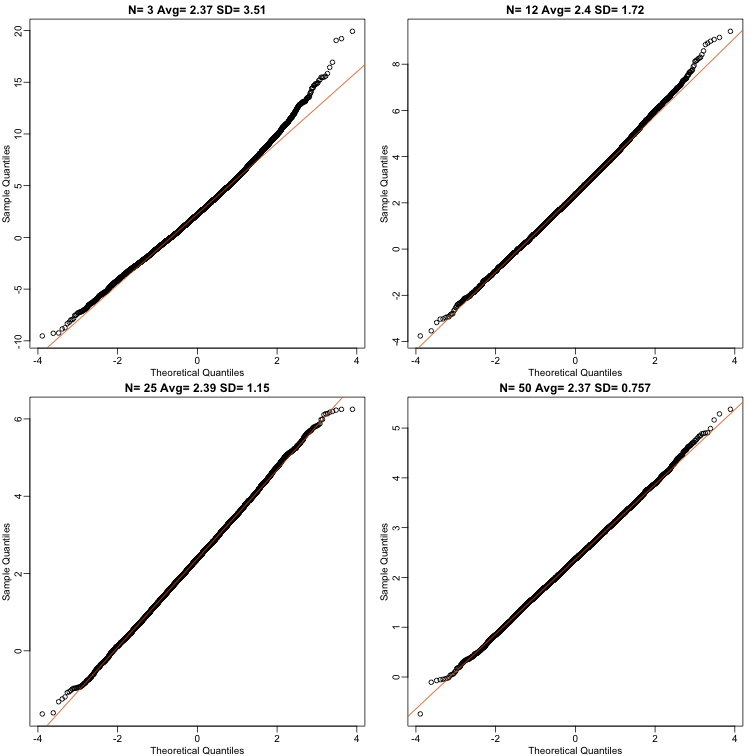
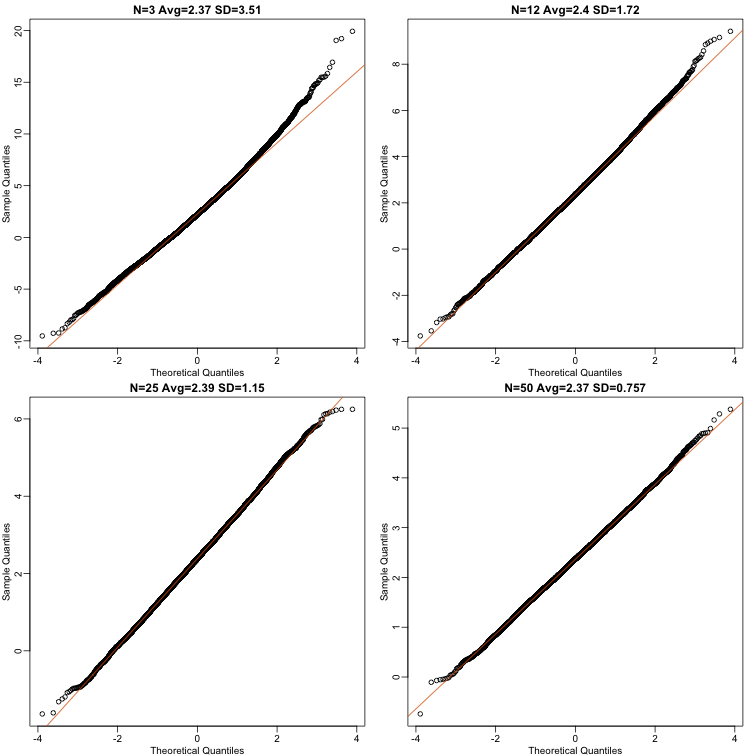
adding clt_in_practice to book

diff --git a/manuscript/clt_in_practice.md b/manuscript/clt_in_practice.md
@@ -12,7 +12,7 @@ layout: page
 
 R markdown document for this section available [here](https://github.com/genomicsclass/labs/tree/master/course1/clt_in_practice.Rmd).
 
-Let's use our data to see how well the central limit approximates sample averages from our data. We will leverage our entire population dataset to compare the results we obtain by actually sampling from the distribution to what the CLT predicts.  
+Let's use our data to see how well the central limit theorem approximates sample averages from our data. We will leverage our entire population dataset to compare the results we obtain by actually sampling from the distribution to what the CLT predicts.
 
 
 
@@ -32,7 +32,8 @@ head(dat)
 ## 6   F   hf      27.50
 ```
 
-Start by selecting only female mice since males and females have different weights.
+Start by selecting only female mice since males and females have
+different weights. We will select three mice from each population.
 
 
 ```r
@@ -53,15 +54,18 @@ print(mu_hf - mu_control)
 ## [1] 2.375517
 ```
 
-Compute the population standard deviations as well. We do not use the R function `sd` because this is to compute the population based estimates that divide by the sample size - 1. 
+Compute the population standard deviations as well. We do not use the
+R function `sd` because this would compute the estimates that divide by the
+sample size - 1, and we want the population estimates.
 
 We can see that with R code:
 
+
 ```r
-x<-controlPopulation
-N<-length(x)
+x <- controlPopulation
+N <- length(x)
 popvar <- mean((x-mean(x))^2)
-identical(var(x),popvar)
+identical(var(x), popvar)
 ```
 
 ```
@@ -76,7 +80,9 @@ identical(var(x)*(N-1)/N, popvar)
 ## [1] TRUE
 ```
 
-So to be mathematically correct we do not use `sd` or  `var`. I am going to define a function for this:
+So to be mathematically correct we do not use `sd` or  `var`. I am
+going to define functions for this:
+
 
 ```r
 popvar <- function(x) mean( (x-mean(x))^2)
@@ -94,19 +100,24 @@ sd_control <- popsd(controlPopulation)
 Remember that in practice we do not get to compute these population parameters.
 These are values we never see. In general, we want to estimate them from samples. 
 
+
 ```r
 N <- 12
-hf <- sample(hfPopulation,12)
-control <- sample(controlPopulation,12)
+hf <- sample(hfPopulation, 12)
+control <- sample(controlPopulation, 12)
 ```
-The CLT tells us that, for large {$$}N{/$$}, each of these is approximately normal with average population mean and standard error population variance divided by {$$}N{/$$}. We mentioned that a rule of thumb is that {$$}N{/$$} should be 30 or more. But that is just a rule of thumb as the preciseness of the approximation depends on the population distribution. Here we can actually check the approximation and we do that for various values of {$$}N{/$$}.
 
-Now we use `sapply` and `replicate` instead of `for` loops, which is recommended.
+The CLT tells us that, for large {$$}N{/$$}, each of these is approximately normal with average population mean and standard error population variance divided by {$$}N{/$$}. We mentioned that a rule of thumb is that {$$}N{/$$} should be 30 or more. But that is just a rule of thumb, as the preciseness of the approximation depends on the population distribution. Here we can actually check the approximation and we do that for various values of {$$}N{/$$}.
+
+Now we use `sapply` and `replicate` instead of `for` loops, which
+makes for cleaner code (we do not have to pre-allocate a vector, R
+takes care of this for us):
+
 
 ```r
 Ns <- c(3,12,25,50)
 B <- 10000 #number of simulations
-res <-  sapply(Ns,function(n){
+res <-  sapply(Ns,function(n) {
   replicate(B,mean(sample(hfPopulation,n))-mean(sample(controlPopulation,n)))
 })
 ```
@@ -118,19 +129,13 @@ Now we can use qq-plots to see how well CLT approximations works for these. If i
 library(rafalib)
 ```
 
-```
-## 
-## Attaching package: 'rafalib'
-## 
-## The following objects are masked _by_ '.GlobalEnv':
-## 
-##     popsd, popvar
-```
 
 ```r
 mypar(2,2)
-for(i in seq(along=Ns)){
-  title <- paste("N=",Ns[i],"Avg=",signif(mean(res[,i]),3),"SD=",signif(popsd(res[,i]),3)) #popsd defined above
+for (i in seq(along=Ns)) {
+  titleavg <- signif(mean(res[,i]),3)
+  titlesd <- signif(popsd(res[,i]),3)
+  title <- paste0("N=",Ns[i]," Avg=",titleavg," SD=",titlesd)
   qqnorm(res[,i],main=title)
   qqline(res[,i],col=2)
 }
@@ -138,23 +143,28 @@ for(i in seq(along=Ns)){
 
 ![Quantile versus quantile plot of simulated differences versus theoretical normal distribution for four different sample sizes.](images/R/clt_in_practice-tmp-effect_size_qqplot-1.png) 
 
-Here we see a pretty good fit even for 3. Why is this? Because the population itself is relatively close to normally distributed, the averages are close to normal as well (the sum of normals is normals). In practice we actually calculate a ratio: we divide by the estimated standard deviation. Here is where the sample size starts to matter more.
+Here we see a pretty good fit even for 3. Why is this? Because the
+population itself is relatively close to normally distributed, the
+averages are close to normal as well (the sum of normals is also a
+normal). In practice we actually calculate a ratio: we divide by the
+estimated standard deviation. Here is where the sample size starts to
+matter more. 
 
 
 ```r
 Ns <- c(3,12,25,50)
 B <- 10000 #number of simulations
 ##function to compute a t-stat
-computetstat <- function(n){
-  y<-sample(hfPopulation,n)
-  x<-sample(controlPopulation,n)
+computetstat <- function(n) {
+  y <- sample(hfPopulation,n)
+  x <- sample(controlPopulation,n)
   (mean(y)-mean(x))/sqrt(var(y)/n+var(x)/n)
 }
-res <-  sapply(Ns,function(n){
+res <-  sapply(Ns,function(n) {
   replicate(B,computetstat(n))
 })
 mypar(2,2)
-for(i in seq(along=Ns)){
+for (i in seq(along=Ns)) {
   qqnorm(res[,i],main=Ns[i])
   qqline(res[,i],col=2)
 }
@@ -162,12 +172,14 @@ for(i in seq(along=Ns)){
 
 ![Quantile versus quantile plot of simulated ratios versus theoretical normal distribution for four different sample sizes.](images/R/clt_in_practice-tmp-t_test_qqplot-1.png) 
 
-So we see that for {$$}N=3{/$$} the CLT does not provide a usable approximation. For {$$}N=12{/$$} there is a slight deviation at the higher values, although the approximation appears useful. For 25 and 50 the approximation is spot on. 
+So we see that for {$$}N=3{/$$} the CLT does not provide a usable
+approximation. For {$$}N=12{/$$} there is a slight deviation at the higher
+values, although the approximation appears useful. For 25 and 50 the
+approximation is spot on.
 
-This simulation only proves that {$$}N=12{/$$} is large enough in this case, not in general. As mentioned above, we will not be able to perform this simulation in most situations. We only use the simulation to illustrate the concepts behind the CLT. In future sections we will describe the approaches we actually use in practice.
-
-
-
-
-
+This simulation only proves that {$$}N=12{/$$} is large enough in this case,
+not in general. As mentioned above, we will not be able to perform
+this simulation in most situations. We only use the simulation to
+illustrate the concepts behind the CLT and its limitations. In future
+sections we will describe the approaches we actually use in practice. 
 
